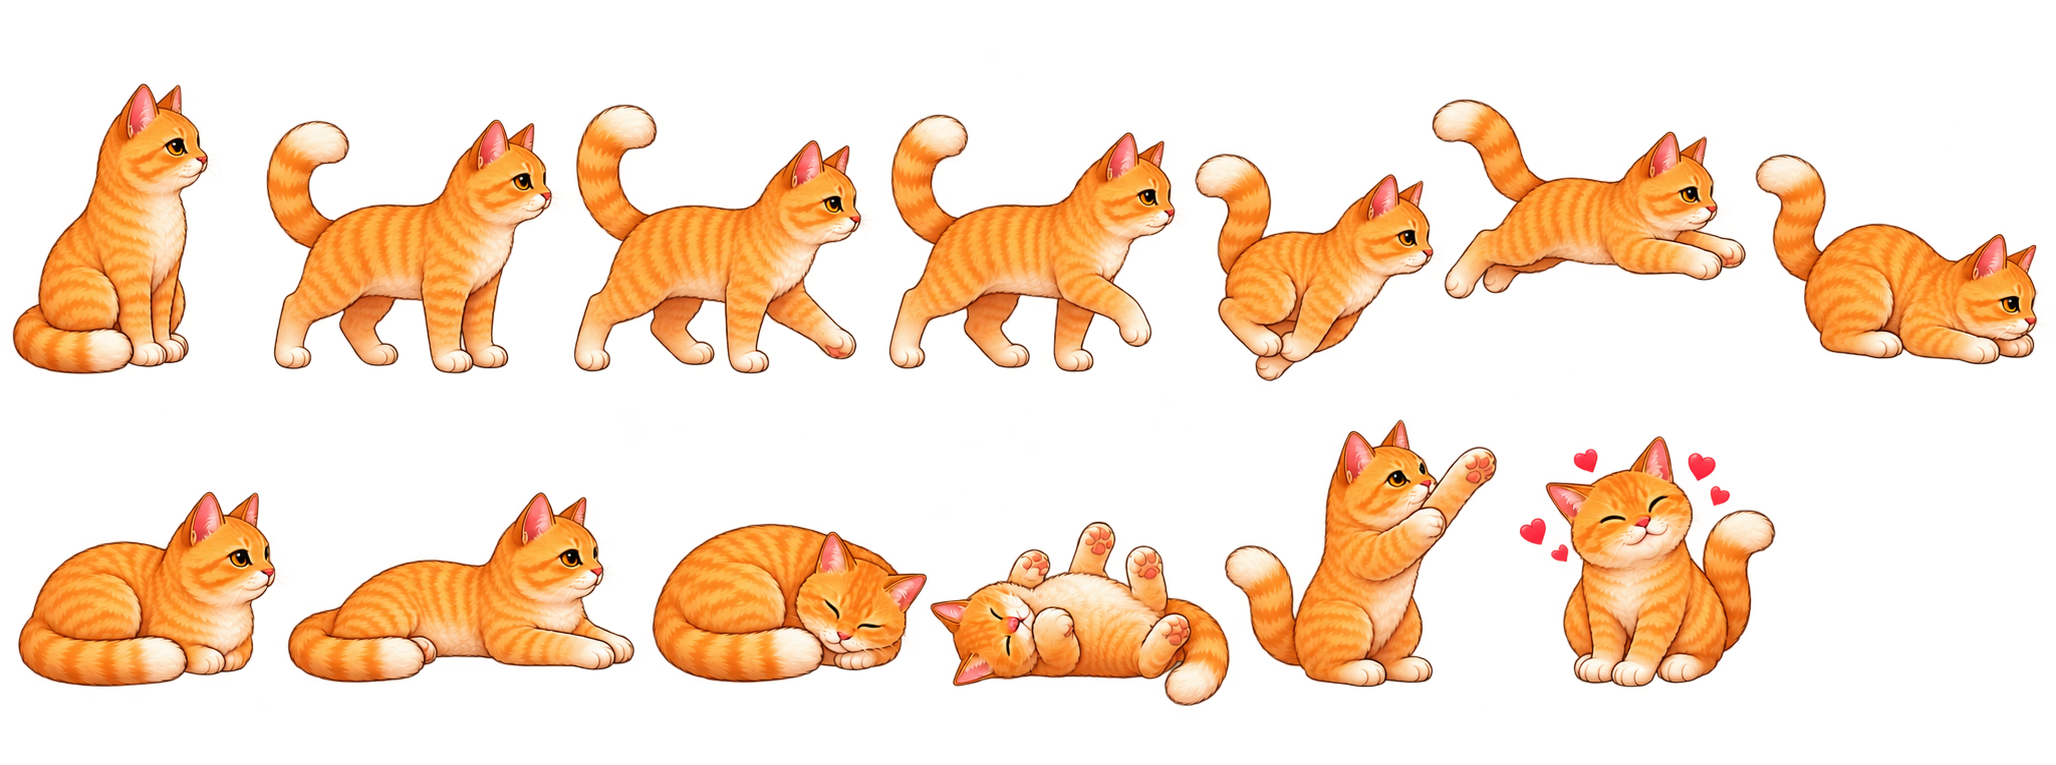
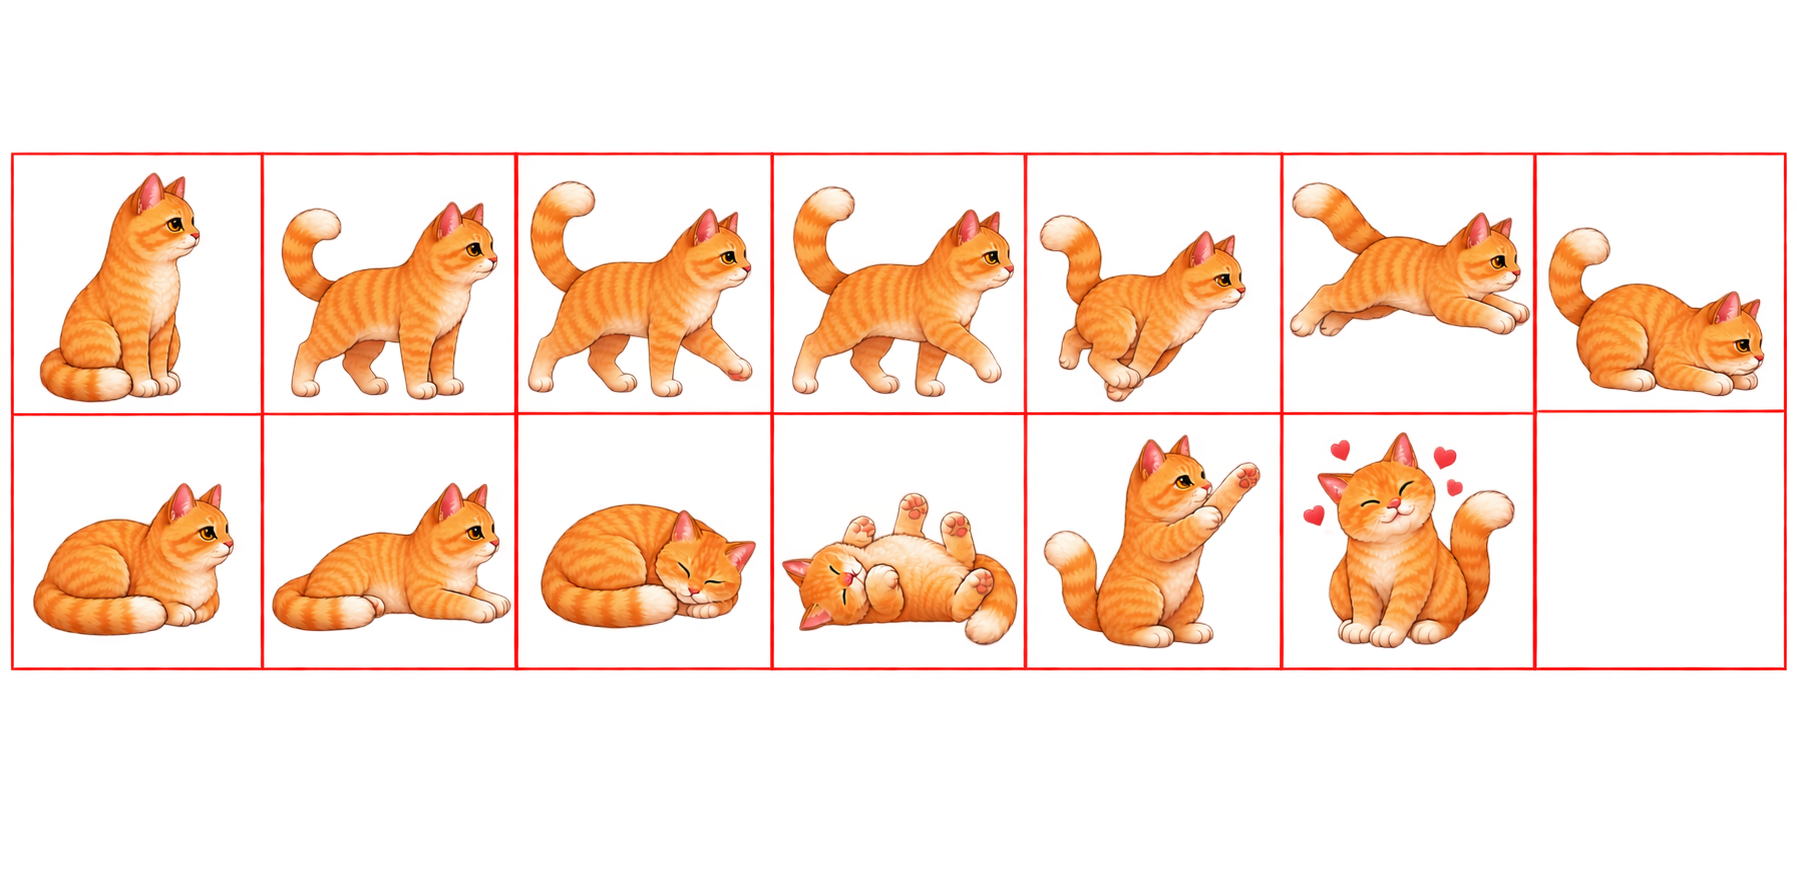
Fixes - test deployment

diff --git a/index.html b/index.html
@@ -6,7 +6,7 @@
   <meta name="mobile-web-app-capable" content="yes">
   <meta name="apple-mobile-web-app-capable" content="yes">
   <meta name="apple-mobile-web-app-status-bar-style" content="black-translucent">
-  <title>Mario Rush</title>
+  <title>Mario Rush(TBC)</title>
   <link rel="stylesheet" href="css/style.css">
 </head>
 <body>
